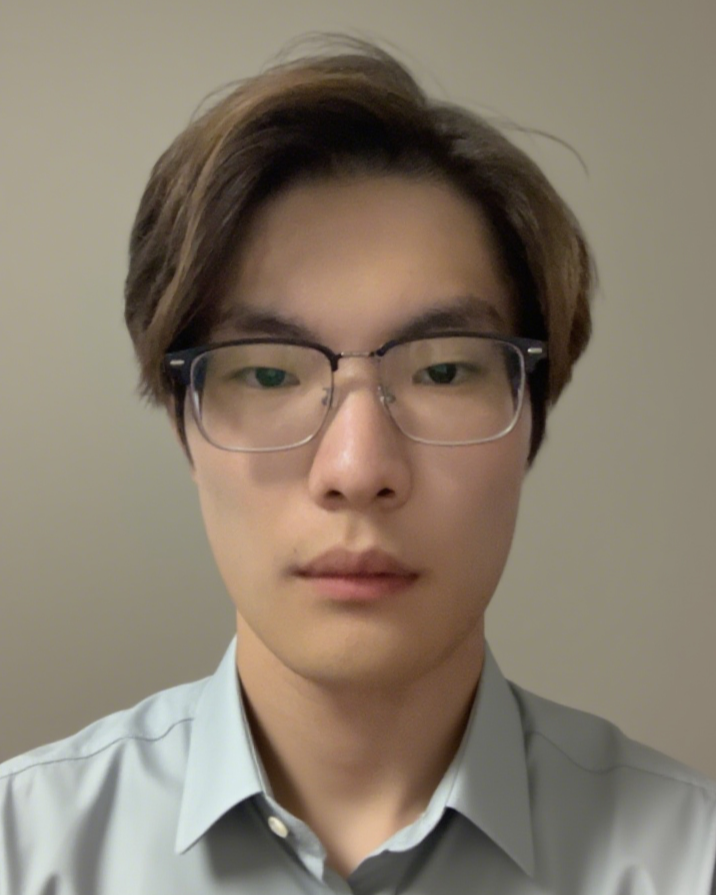
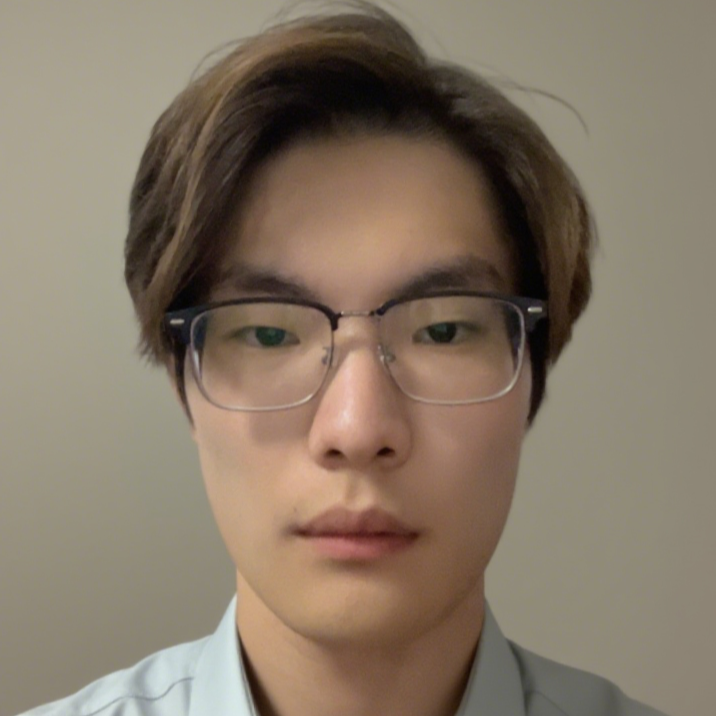
PHOTO CHANGED

diff --git a/people.html b/people.html
@@ -557,7 +557,7 @@
                         </div>
                         <div id="w-node-db0def77-14cc-2fc5-a57d-8adb494da31f-dcf869a3" class="team-card">
                             <a href="https://github.com/Joyymoonh">
-                                <img src="assets/photo/portrait/zmh.jpeg" alt="" class="image-cover"/>
+                                <img src="assets/photo/portrait/zmh.png" alt="" class="image-cover"/>
                             </a>
                             <div class="team-info-wrap">
                                 <div class="text-h6">张墨涵</div>
